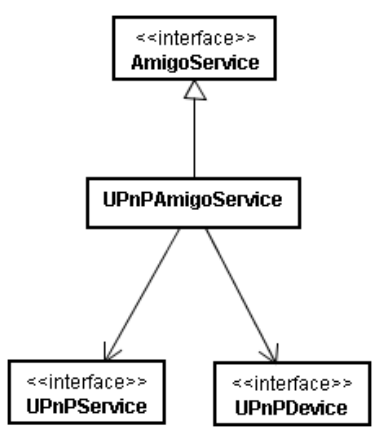
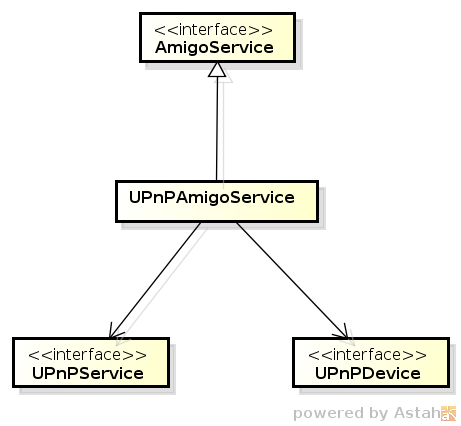
Refatoração das figuras pra ficarem feitas no mesmo programa.

Changed region(s): [[0.0, 0.0305, 0.8148, 1.0], [0.5529, 0.6408, 0.9894, 1.0]]

diff --git a/capitulos/2.ClassificacaoDeRecursos/classificacao/amigo.tex b/capitulos/2.ClassificacaoDeRecursos/classificacao/amigo.tex
@@ -3,7 +3,7 @@ O projeto Amigo (\emph{Ambient Intelligence for the Networked home environment})
 
 \begin{figure}[ht]
 \center
-\includegraphics[scale=0.5]{imagens/amigo-interfaces}
+\includegraphics[scale=0.8]{imagens/amigo-interfaces}
 \caption{Implementação de um \emph{AmigoService} utilizando serviços UPnP~\cite{amigoCore}}
 \label{fig:amigoInterfaces}
 \end{figure}
